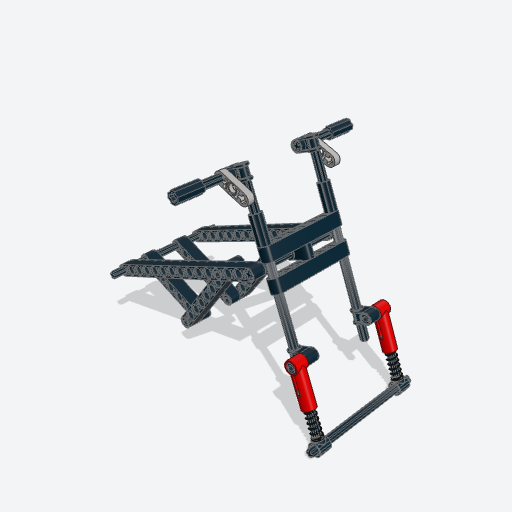
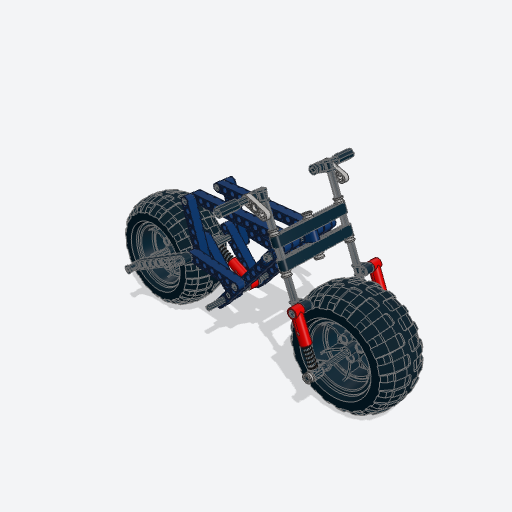
4G: Renders and the review page for the ten bike techniques
Claude-Session: https://claude.ai/code/session_01Xdt7M1M1mYeDVjLgptooLY

Changed region(s): [[0.2188, 0.2188, 0.8438, 0.9062]]

diff --git a/docs/techniques/candidates/batch-19.html b/docs/techniques/candidates/batch-19.html
@@ -23,22 +23,20 @@
 <body>
 <header>
   <h1>Technique candidates: batch-19</h1>
-  <p>7 display-bike techniques for Emmet's technique library (session 4G), made from the e-bike hand check: a display motorbike's skeleton built by its holes, every joint a pin or an axle in a hole. Each picture is a render of the technique's example, which validates with no findings on ldraw-mini (its test); the seven together make the 108-part skeleton below, which validates clean too. They're written from general building knowledge, not from any model's file. Every one starts as Accept: switch the ones you don't want, add a note if it helps, then copy your answers and paste them to Claude.</p>
-  <p><img src="batch-19/skeleton-iso.png" alt="The seven techniques together: a motorbike skeleton on its stand" width="320" height="320"> <img src="batch-19/skeleton-front.png" alt="The skeleton from the side" width="320" height="320"></p>
-  <p>After your e-bike session (2026-11-09) they take a photo's proportions: the frame's head and lower corner, the swingarm's reach and drop, fat wheels, the bars' rise. And it stands on a kickstand, not a base. The same seven, sized to the e-bike photo (103 parts, clean):</p>
-  <p><img src="batch-19/ebike-iso.png" alt="The skeleton sized to the e-bike photo" width="320" height="320"> <img src="batch-19/ebike-front.png" alt="The e-bike skeleton from the side" width="320" height="320"></p>
+  <p>10 display-bike techniques for Emmet's technique library (session 4G), reworked after your second e-bike session (2026-11-09: 260 parts, rubric 1, 2, 1). The wheels now spring against their shocks instead of hanging on them, every axle has a bush, a half bush, a crank arm, or a cross block on it, the kickstand is on the left swingarm arm, and three new techniques carry the bodywork. Each picture is a render of the technique's example, which validates with no findings on ldraw-mini (its test). The ten together make the 232-part bike below, which validates clean; the agent adds the detail on top. They're written from general building knowledge, not from any model's file. Every one starts as Accept: switch the ones you don't want, add a note if it helps, then copy your answers and paste them to Claude.</p>
+  <p><img src="batch-19/bike-front.png" alt="The ten techniques together: the e-bike from the right" width="320" height="320"> <img src="batch-19/bike-back.png" alt="The e-bike from the left, on its kickstand" width="320" height="320"> <img src="batch-19/bike-iso.png" alt="The e-bike from the front right" width="320" height="320"></p>
 </header>
 <section class="card" data-n="1">
   <div class="shot"><img src="../../../data/techniques/motorbike_frame.png" alt="The example of motorbike_frame" width="320" height="320"></div>
   <div class="body">
     <h2><span class="n">1</span> <code>motorbike_frame</code></h2>
-    <p>A triangle of Technic beams on edge a side, joined by axles through the pivot and the head, with a head bearing raked on a 5-12-13 line for the fork to turn in.</p>
-    <p class="why">The skeleton every display bike hangs on, so the swingarm, fork, chain, and bodywork go on holes, not guesses.</p>
-    <p class="note"><b>Note:</b> Sides 8 studs apart; the right side goes together first, then the pivot axle, the left side onto it, and the steering head: a cross block on the head axle whose pin hole runs along the raked steering axis. With on= (the stand&#x27;s hole) the pivot axle goes through the stand first.</p>
+    <p>Five Technic beams on edge a side, fitted in whole studs to the photo&#x27;s head, crank, seat, and rear axle, with the top tube level.</p>
+    <p class="why">The skeleton everything else hangs on, shaped like this bike rather than a stock one, and level on top so the seat and battery go on its holes.</p>
+    <p class="note"><b>Note:</b> Every cross axle is held: the head axle by a thin liftarm each side, pinned to the down tube, which also stops the head bearing tipping; the pivot axle by the swingarm&#x27;s bushes; the crank axle by the crank arms; the shock mount by half bushes either side of the shock&#x27;s eye. The fit also picks the swingarm&#x27;s angle so the shock fits exactly.</p>
     <dl>
-      <dt>Parameters</dt><dd><code>x</code>, <code>y</code>, <code>z</code>, <code>head</code>, <code>bottom</code>, <code>rake</code>, <code>color</code>, <code>pin_color</code>, <code>axle_color</code>, <code>title</code></dd>
+      <dt>Parameters</dt><dd><code>x</code>, <code>y</code>, <code>z</code>, <code>head</code>, <code>5.4)</code>, <code>crank</code>, <code>-4.1)</code>, <code>seat</code>, <code>4.6)</code>, <code>rear</code>, <code>-3.6)</code>, <code>rake</code>, <code>color</code>, <code>pin_color</code>, <code>axle_color</code>, <code>lock_color</code>, <code>title</code></dd>
       <dt>Technique</dt><dd><a href="../../../data/techniques/motorbike_frame.py"><code>data/techniques/motorbike_frame.py</code></a></dd>
-      <dt>Parts</dt><dd><code>32523</code> + <code>32316</code> + <code>32524</code> + <code>40490</code> + <code>32525</code> + <code>41239</code> + <code>32278</code> + <code>2780</code> + <code>3737</code> + <code>3707</code> + <code>6536</code></dd>
+      <dt>Parts</dt><dd><code>32523</code> + <code>32316</code> + <code>32524</code> + <code>40490</code> + <code>32525</code> + <code>41239</code> + <code>32278</code> + <code>2780</code> + <code>44294</code> + <code>3708</code> + <code>3737</code> + <code>3706</code> + <code>6632</code> + <code>6536</code></dd>
     </dl>
     <div class="pick" role="radiogroup" aria-label="Decision for motorbike_frame">
       <label><input type="radio" name="d1" value="accept" checked> Accept</label>
@@ -51,13 +49,13 @@
   <div class="shot"><img src="../../../data/techniques/swingarm_shock.png" alt="The example of swingarm_shock" width="320" height="320"></div>
   <div class="body">
     <h2><span class="n">2</span> <code>swingarm_shock</code></h2>
-    <p>The rear swingarm on the frame&#x27;s pivot axle, a center shock absorber from the arms up to the frame, and the rear wheel on its axle.</p>
-    <p class="why">A display bike&#x27;s rear end: the arms slope down to the wheel, and the shock sets their angle.</p>
-    <p class="note"><b>Note:</b> The shock is 5.5 studs between holes, which no two whole-stud holes are; the arms hang on one axle, so the technique works out the angle (about 24.5 degrees down) that makes the shock fit both axles.</p>
+    <p>The rear swingarm on the pivot axle, one shock absorber in the middle from a cross axle a stud behind the pivot up to the frame, and the rear wheel.</p>
+    <p class="why">The rear wheel can only rise by squeezing the spring. Your note: the old twin shocks hung on mounts that swung free on one pin, so they did nothing.</p>
+    <p class="note"><b>Note:</b> A bush on each end of every axle (the pivot, the shock&#x27;s, the rear axle), outside the arms.</p>
     <dl>
-      <dt>Parameters</dt><dd><code>frame</code>, <code>reach</code>, <code>drop</code>, <code>wheel</code>, <code>color</code>, <code>shock_color</code>, <code>axle_color</code>, <code>title</code></dd>
+      <dt>Parameters</dt><dd><code>frame</code>, <code>reach</code>, <code>wheel</code>, <code>color</code>, <code>shock_color</code>, <code>axle_color</code>, <code>bush_color</code>, <code>title</code></dd>
       <dt>Technique</dt><dd><a href="../../../data/techniques/swingarm_shock.py"><code>data/techniques/swingarm_shock.py</code></a></dd>
-      <dt>Parts</dt><dd><code>32523</code> + <code>32316</code> + <code>32524</code> + <code>40490</code> + <code>32525</code> + <code>41239</code> + <code>32278</code> + <code>73129</code> + <code>2780</code> + <code>3737</code> + <code>88517c01</code> + <code>44772c01</code></dd>
+      <dt>Parts</dt><dd><code>40490</code> + <code>32524</code> + <code>32525</code> + <code>41239</code> + <code>32278</code> + <code>73129</code> + <code>3708</code> + <code>3713</code> + <code>32123a</code> + <code>44772c01</code> + <code>88517c01</code></dd>
     </dl>
     <div class="pick" role="radiogroup" aria-label="Decision for swingarm_shock">
       <label><input type="radio" name="d2" value="accept" checked> Accept</label>
@@ -70,13 +68,13 @@
   <div class="shot"><img src="../../../data/techniques/suspension_fork.png" alt="The example of suspension_fork" width="320" height="320"></div>
   <div class="body">
     <h2><span class="n">3</span> <code>suspension_fork</code></h2>
-    <p>A fork that steers: a triple tree (an upper and a lower clamp) on a steerer turning in the frame&#x27;s head bearing, two fork tubes through it, a shock on each, and the front wheel.</p>
-    <p class="why">A display bike&#x27;s front end that turns with the bars, on a triple tree and a pivot, as you asked.</p>
-    <p class="note"><b>Note:</b> Changed after your review: the steerer is the only joint between the fork and the frame (a test checks it), so the whole front end, bars included, turns. The front wheel comes out level with the rear wheel.</p>
+    <p>A fork that steers and springs: a triple tree on a steerer turning in the head bearing, fork tubes locked in it, a slider on each tube carrying the front axle, and a shock each side as the spring.</p>
+    <p class="why">Your note: the old fork hung the wheel on its shocks, so it wasn&#x27;t stable. Now the tubes guide the wheel and the shocks hold it down the fork.</p>
+    <p class="note"><b>Note:</b> Axle 16 tubes with a half bush above the upper clamp and below the lower one; the front axle comes out level with the rear one, half bushes on its ends.</p>
     <dl>
-      <dt>Parameters</dt><dd><code>frame</code>, <code>drop</code>, <code>wheel</code>, <code>color</code>, <code>tube_color</code>, <code>shock_color</code>, <code>axle_color</code>, <code>title</code></dd>
+      <dt>Parameters</dt><dd><code>frame</code>, <code>swingarm</code>, <code>wheel</code>, <code>color</code>, <code>tube_color</code>, <code>shock_color</code>, <code>axle_color</code>, <code>bush_color</code>, <code>title</code></dd>
       <dt>Technique</dt><dd><a href="../../../data/techniques/suspension_fork.py"><code>data/techniques/suspension_fork.py</code></a></dd>
-      <dt>Parts</dt><dd><code>4519</code> + <code>32524</code> + <code>40490</code> + <code>3707</code> + <code>3737</code> + <code>3708</code> + <code>6536</code> + <code>73129</code> + <code>2780</code> + <code>88517c01</code> + <code>44772c01</code></dd>
+      <dt>Parts</dt><dd><code>3705</code> + <code>32123a</code> + <code>40490</code> + <code>32524</code> + <code>50451</code> + <code>6536</code> + <code>73129</code> + <code>2780</code> + <code>3708</code> + <code>3737</code> + <code>44772c01</code> + <code>88517c01</code></dd>
     </dl>
     <div class="pick" role="radiogroup" aria-label="Decision for suspension_fork">
       <label><input type="radio" name="d3" value="accept" checked> Accept</label>
@@ -89,13 +87,13 @@
   <div class="shot"><img src="../../../data/techniques/chain_drive.png" alt="The example of chain_drive" width="320" height="320"></div>
   <div class="body">
     <h2><span class="n">4</span> <code>chain_drive</code></h2>
-    <p>Sprockets on the swingarm&#x27;s pivot and the rear axle, and a chain of Technic chain links round them in whole links.</p>
-    <p class="why">The chain a motorbike or e-bike shows on its right side.</p>
-    <p class="note"><b>Note:</b> The links clip to each other and the sprockets hold the loop; no allow is needed (the e-bike retry allowed it). The sprockets go on after the axles here.</p>
+    <p>A chainring on the frame&#x27;s crank axle, a sprocket on the rear axle, a loop of chain links round them, and crank arms with pedals.</p>
+    <p class="why">The chain the photo shows, in the plane inside the right swingarm arm.</p>
+    <p class="note"><b>Note:</b> The crank arms hold the crank axle&#x27;s ends.</p>
     <dl>
-      <dt>Parameters</dt><dd><code>frame</code>, <code>swingarm</code>, <code>pedals</code>, <code>sprocket_color</code>, <code>chain_color</code>, <code>crank_color</code>, <code>title</code></dd>
+      <dt>Parameters</dt><dd><code>frame</code>, <code>swingarm</code>, <code>pedals</code>, <code>ring_color</code>, <code>sprocket_color</code>, <code>chain_color</code>, <code>crank_color</code>, <code>title</code></dd>
       <dt>Technique</dt><dd><a href="../../../data/techniques/chain_drive.py"><code>data/techniques/chain_drive.py</code></a></dd>
-      <dt>Parts</dt><dd><code>3737</code> + <code>3648b</code> + <code>4019</code> + <code>3711</code> + <code>6632</code> + <code>3749</code></dd>
+      <dt>Parts</dt><dd><code>3648b</code> + <code>4019</code> + <code>3711</code> + <code>6632</code> + <code>3749</code></dd>
     </dl>
     <div class="pick" role="radiogroup" aria-label="Decision for chain_drive">
       <label><input type="radio" name="d4" value="accept" checked> Accept</label>
@@ -108,13 +106,13 @@
   <div class="shot"><img src="../../../data/techniques/disc_brake.png" alt="The example of disc_brake" width="320" height="320"></div>
   <div class="body">
     <h2><span class="n">5</span> <code>disc_brake</code></h2>
-    <p>A brake disc on the front axle inside each shock, and a red caliper arm from the axle over the disc&#x27;s face.</p>
-    <p class="why">Front disc brakes, the detail that says sports bike.</p>
-    <p class="note"><b>Note:</b> One side or both (both by default).</p>
+    <p>Brake discs on the front axle, between the hub and each slider, and one on the rear axle inside the left arm.</p>
+    <p class="why">The discs the photo&#x27;s bike has; their 3-stud radius sits inside the rim, clear of the tire.</p>
+    <p class="note"><b>Note:</b> There&#x27;s no separate caliper: there&#x27;s no room beside the slider, which stands in for it.</p>
     <dl>
-      <dt>Parameters</dt><dd><code>fork</code>, <code>disc_color</code>, <code>caliper_color</code>, <code>both</code>, <code>title</code></dd>
+      <dt>Parameters</dt><dd><code>fork</code>, <code>swingarm</code>, <code>disc_color</code>, <code>both</code>, <code>title</code></dd>
       <dt>Technique</dt><dd><a href="../../../data/techniques/disc_brake.py"><code>data/techniques/disc_brake.py</code></a></dd>
-      <dt>Parts</dt><dd><code>65416</code> + <code>6632</code></dd>
+      <dt>Parts</dt><dd><code>65416</code></dd>
     </dl>
     <div class="pick" role="radiogroup" aria-label="Decision for disc_brake">
       <label><input type="radio" name="d5" value="accept" checked> Accept</label>
@@ -127,13 +125,13 @@
   <div class="shot"><img src="../../../data/techniques/handlebars.png" alt="The example of handlebars" width="320" height="320"></div>
   <div class="body">
     <h2><span class="n">6</span> <code>handlebars</code></h2>
-    <p>Bars on top of the fork tubes, above the upper clamp, with a lever reaching forward and a grip on each end.</p>
-    <p class="why">Handlebars with grips and levers that turn with the fork.</p>
-    <p class="note"><b>Note:</b> Changed after your review: the bars sit on the fork tubes, so they steer the fork. The levers droop 20 degrees by default; the grips are axle joiners on the bars&#x27; last stud.</p>
+    <p>Bars on the fork tubes&#x27; tops with levers and grips, turning with the fork.</p>
+    <p class="why">The tall bars of the photo; the tubes stand above the upper clamp for them.</p>
+    <p class="note"><b>Note:</b> Each bar is now held by a half bush inside its mount, with the lever outside, so it can&#x27;t slide out.</p>
     <dl>
       <dt>Parameters</dt><dd><code>fork</code>, <code>rise</code>, <code>color</code>, <code>grip_color</code>, <code>lever_color</code>, <code>droop</code>, <code>title</code></dd>
       <dt>Technique</dt><dd><a href="../../../data/techniques/handlebars.py"><code>data/techniques/handlebars.py</code></a></dd>
-      <dt>Parts</dt><dd><code>6536</code> + <code>3705</code> + <code>6632</code> + <code>59443</code> + <code>4519</code> + <code>32073</code> + <code>3706</code> + <code>44294</code> + <code>3707</code> + <code>3737</code></dd>
+      <dt>Parts</dt><dd><code>6536</code> + <code>3705</code> + <code>32123a</code> + <code>6632</code> + <code>59443</code> + <code>4519</code> + <code>32073</code> + <code>3706</code> + <code>44294</code> + <code>3707</code> + <code>3737</code></dd>
     </dl>
     <div class="pick" role="radiogroup" aria-label="Decision for handlebars">
       <label><input type="radio" name="d6" value="accept" checked> Accept</label>
@@ -146,18 +144,75 @@
   <div class="shot"><img src="../../../data/techniques/kickstand.png" alt="The example of kickstand" width="320" height="320"></div>
   <div class="body">
     <h2><span class="n">7</span> <code>kickstand</code></h2>
-    <p>A side stand: a beam swung down and back from the frame&#x27;s left side so its foot meets the table level with the tires.</p>
-    <p class="why">The bike stands on its own wheels and kickstand, with no base, so the parts go into the bike.</p>
-    <p class="note"><b>Note:</b> Changed after your note (2026-11-09): it replaces the display stand and nameplate.</p>
+    <p>A beam pinned to the left swingarm arm and swung down and back to the table, level with the tires.</p>
+    <p class="why">Your note: the kickstand goes on the rear left swing arm, not the frame&#x27;s middle. The bike stands on its wheels and the stand (the left side, below).</p>
+    <p class="note"><b>Note:</b> A friction pin holds it at its angle, as on a set&#x27;s stand.</p>
     <dl>
-      <dt>Parameters</dt><dd><code>frame</code>, <code>swingarm</code>, <code>hole</code>, <code>color</code>, <code>title</code></dd>
+      <dt>Parameters</dt><dd><code>swingarm</code>, <code>hole</code>, <code>color</code>, <code>title</code></dd>
       <dt>Technique</dt><dd><a href="../../../data/techniques/kickstand.py"><code>data/techniques/kickstand.py</code></a></dd>
-      <dt>Parts</dt><dd><code>6558</code> + <code>32523</code> + <code>32316</code> + <code>32524</code> + <code>40490</code> + <code>32525</code> + <code>41239</code> + <code>32278</code></dd>
+      <dt>Parts</dt><dd><code>2780</code> + <code>32316</code> + <code>32524</code> + <code>40490</code> + <code>32525</code></dd>
     </dl>
     <div class="pick" role="radiogroup" aria-label="Decision for kickstand">
       <label><input type="radio" name="d7" value="accept" checked> Accept</label>
       <label><input type="radio" name="d7" value="reject"> Reject</label>
       <input type="text" name="note7" placeholder="Note (optional)" aria-label="Note for kickstand">
+    </div>
+  </div>
+</section>
+<section class="card" data-n="8">
+  <div class="shot"><img src="../../../data/techniques/bike_seat_rack.png" alt="The example of bike_seat_rack" width="320" height="320"></div>
+  <div class="body">
+    <h2><span class="n">8</span> <code>bike_seat_rack</code></h2>
+    <p>New: a long flat seat and a rear rack with tail lights, and a rear fender over the wheel, on a spine of Technic bricks pinned along the level top tubes.</p>
+    <p class="why">The photo&#x27;s long seat and rack, which carry most of the bike&#x27;s look.</p>
+    <p class="note"><b>Note:</b> The rack&#x27;s underside and the fender go in from below, over the wheel, so they&#x27;re one section built on its own.</p>
+    <dl>
+      <dt>Parameters</dt><dd><code>frame</code>, <code>seat</code>, <code>rack</code>, <code>color</code>, <code>rack_color</code>, <code>spine_color</code>, <code>light_color</code>, <code>fender</code>, <code>title</code></dd>
+      <dt>Technique</dt><dd><a href="../../../data/techniques/bike_seat_rack.py"><code>data/techniques/bike_seat_rack.py</code></a></dd>
+      <dt>Parts</dt><dd><code>3028</code> + <code>3033</code> + <code>3036</code> + <code>3958</code> + <code>3703</code> + <code>3894</code> + <code>3701</code> + <code>3702</code> + <code>2780</code> + <code>3022</code> + <code>3021</code> + <code>3020</code> + <code>3795</code> + <code>3034</code> + <code>3832</code> + <code>3024</code> + <code>3023</code> + <code>3623</code> + <code>3710</code> + <code>3666</code> + <code>3460</code> + <code>3070b</code> + <code>3069b</code> + <code>63864</code> + <code>2431</code> + <code>6636</code> + <code>4162</code> + <code>11477</code> + <code>98138</code></dd>
+    </dl>
+    <div class="pick" role="radiogroup" aria-label="Decision for bike_seat_rack">
+      <label><input type="radio" name="d8" value="accept" checked> Accept</label>
+      <label><input type="radio" name="d8" value="reject"> Reject</label>
+      <input type="text" name="note8" placeholder="Note (optional)" aria-label="Note for bike_seat_rack">
+    </div>
+  </div>
+</section>
+<section class="card" data-n="9">
+  <div class="shot"><img src="../../../data/techniques/battery_case.png" alt="The example of battery_case" width="320" height="320"></div>
+  <div class="body">
+    <h2><span class="n">9</span> <code>battery_case</code></h2>
+    <p>New: the e-bike&#x27;s battery, courses of bricks hung under the spine in the frame&#x27;s triangle, each as long as the tubes leave room for at its height.</p>
+    <p class="why">The battery in the frame&#x27;s triangle, as on the photo&#x27;s bike.</p>
+    <p class="note"><b>Note:</b> A course of plates across ties it to the spine; the frame closes round it, so it&#x27;s one section put on whole.</p>
+    <dl>
+      <dt>Parameters</dt><dd><code>frame</code>, <code>seat</code>, <code>width</code>, <code>color</code>, <code>panel</code>, <code>title</code></dd>
+      <dt>Technique</dt><dd><a href="../../../data/techniques/battery_case.py"><code>data/techniques/battery_case.py</code></a></dd>
+      <dt>Parts</dt><dd><code>3666</code> + <code>3710</code> + <code>3023</code> + <code>3007</code> + <code>2456</code> + <code>3001</code> + <code>3002</code> + <code>3003</code> + <code>3832</code> + <code>3034</code> + <code>3795</code> + <code>3020</code> + <code>3021</code> + <code>3022</code></dd>
+    </dl>
+    <div class="pick" role="radiogroup" aria-label="Decision for battery_case">
+      <label><input type="radio" name="d9" value="accept" checked> Accept</label>
+      <label><input type="radio" name="d9" value="reject"> Reject</label>
+      <input type="text" name="note9" placeholder="Note (optional)" aria-label="Note for battery_case">
+    </div>
+  </div>
+</section>
+<section class="card" data-n="10">
+  <div class="shot"><img src="../../../data/techniques/front_fender.png" alt="The example of front_fender" width="320" height="320"></div>
+  <div class="body">
+    <h2><span class="n">10</span> <code>front_fender</code></h2>
+    <p>New: a high front fender, a blade of plates and tiles on brackets fixed to the fork tubes, so it turns with the fork and stays put as the wheel springs.</p>
+    <p class="why">The photo&#x27;s high front fender.</p>
+    <p class="note"><b>Note:</b> A cross block 2 x 2 on each tube holds an L-liftarm; two axles between them carry Technic bricks with their studs up the fork, and the blade sits on those.</p>
+    <dl>
+      <dt>Parameters</dt><dd><code>fork</code>, <code>length</code>, <code>color</code>, <code>top_color</code>, <code>bracket_color</code>, <code>title</code></dd>
+      <dt>Technique</dt><dd><a href="../../../data/techniques/front_fender.py"><code>data/techniques/front_fender.py</code></a></dd>
+      <dt>Parts</dt><dd><code>32291</code> + <code>2780</code> + <code>32140</code> + <code>44294</code> + <code>3707</code> + <code>32073</code> + <code>3706</code> + <code>32123a</code> + <code>3701</code> + <code>3020</code> + <code>3022</code> + <code>87079</code> + <code>3068b</code></dd>
+    </dl>
+    <div class="pick" role="radiogroup" aria-label="Decision for front_fender">
+      <label><input type="radio" name="d10" value="accept" checked> Accept</label>
+      <label><input type="radio" name="d10" value="reject"> Reject</label>
+      <input type="text" name="note10" placeholder="Note (optional)" aria-label="Note for front_fender">
     </div>
   </div>
 </section>
